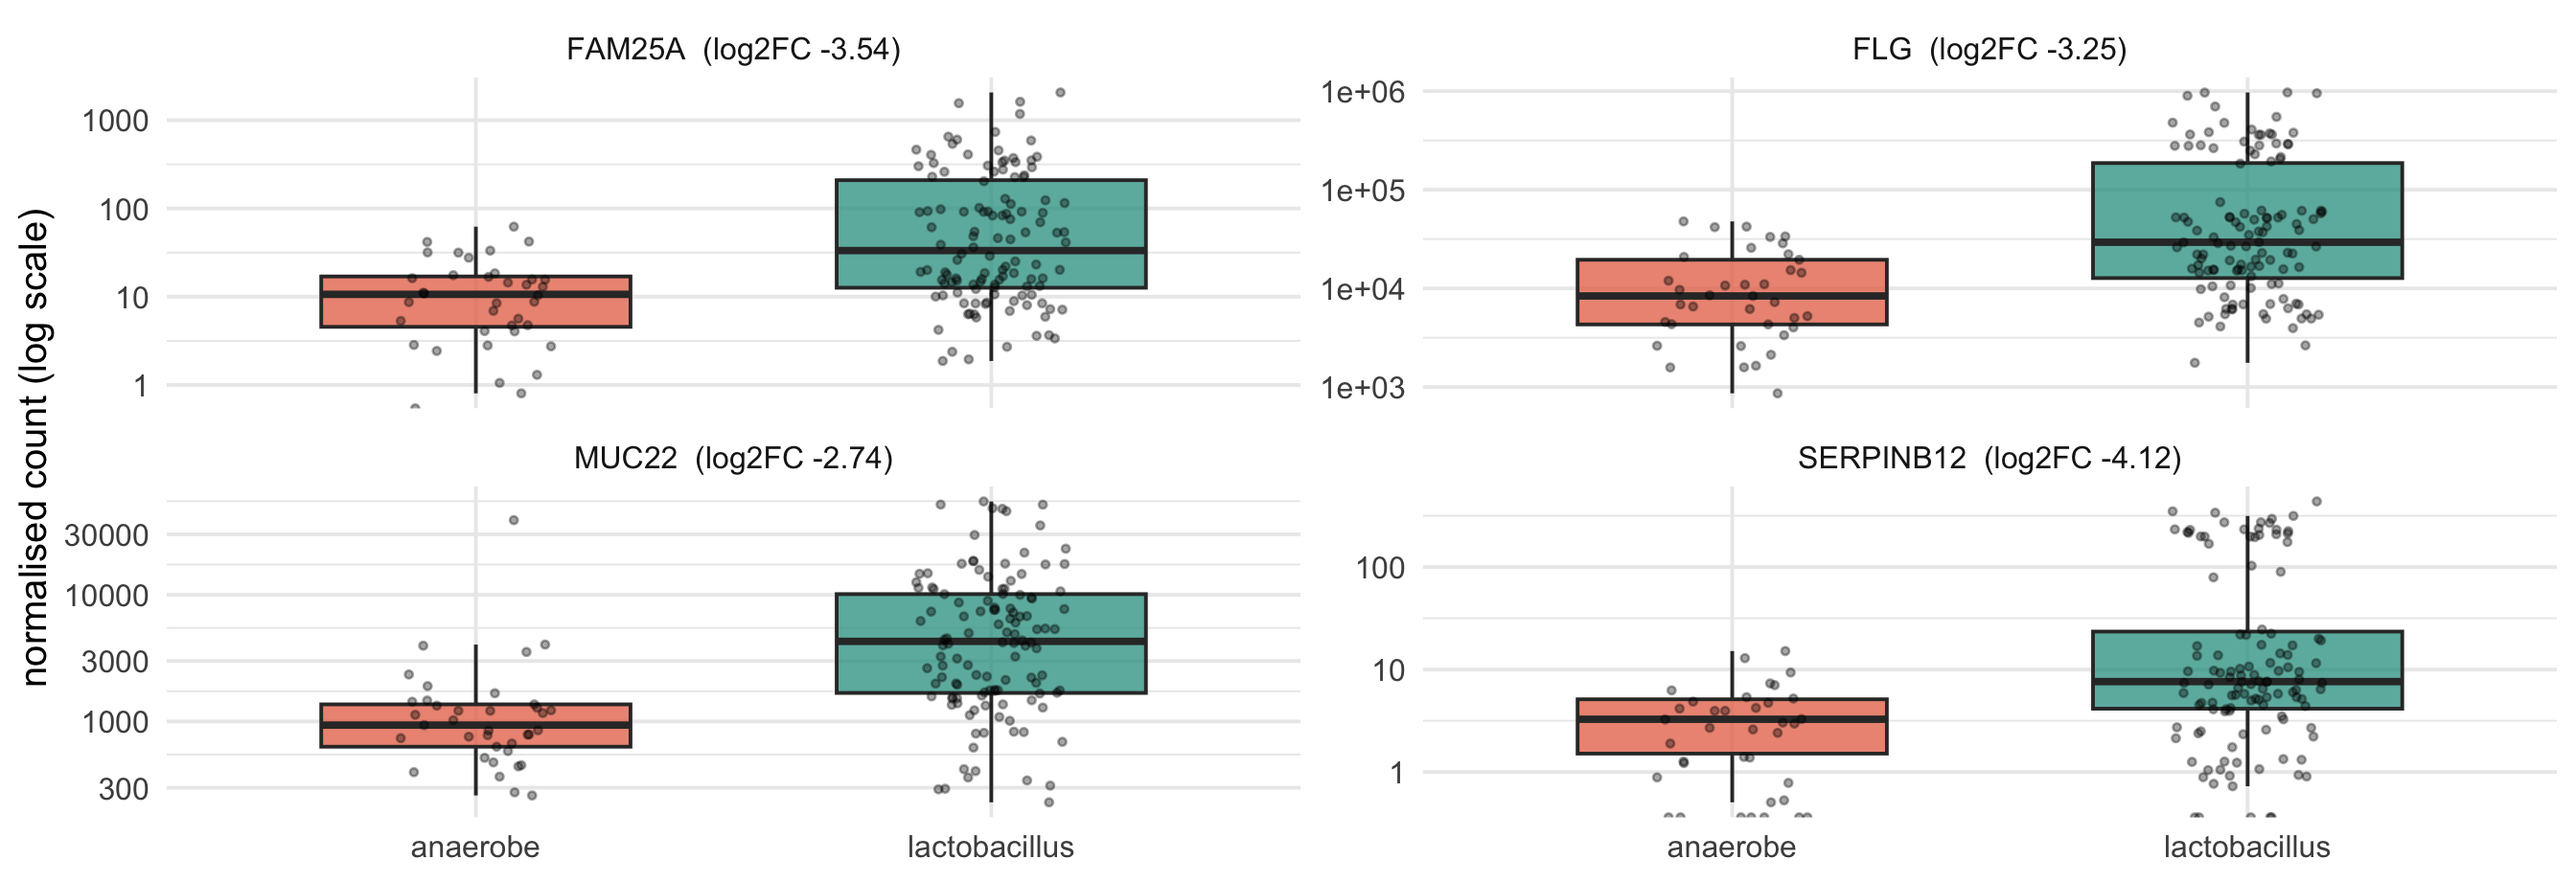
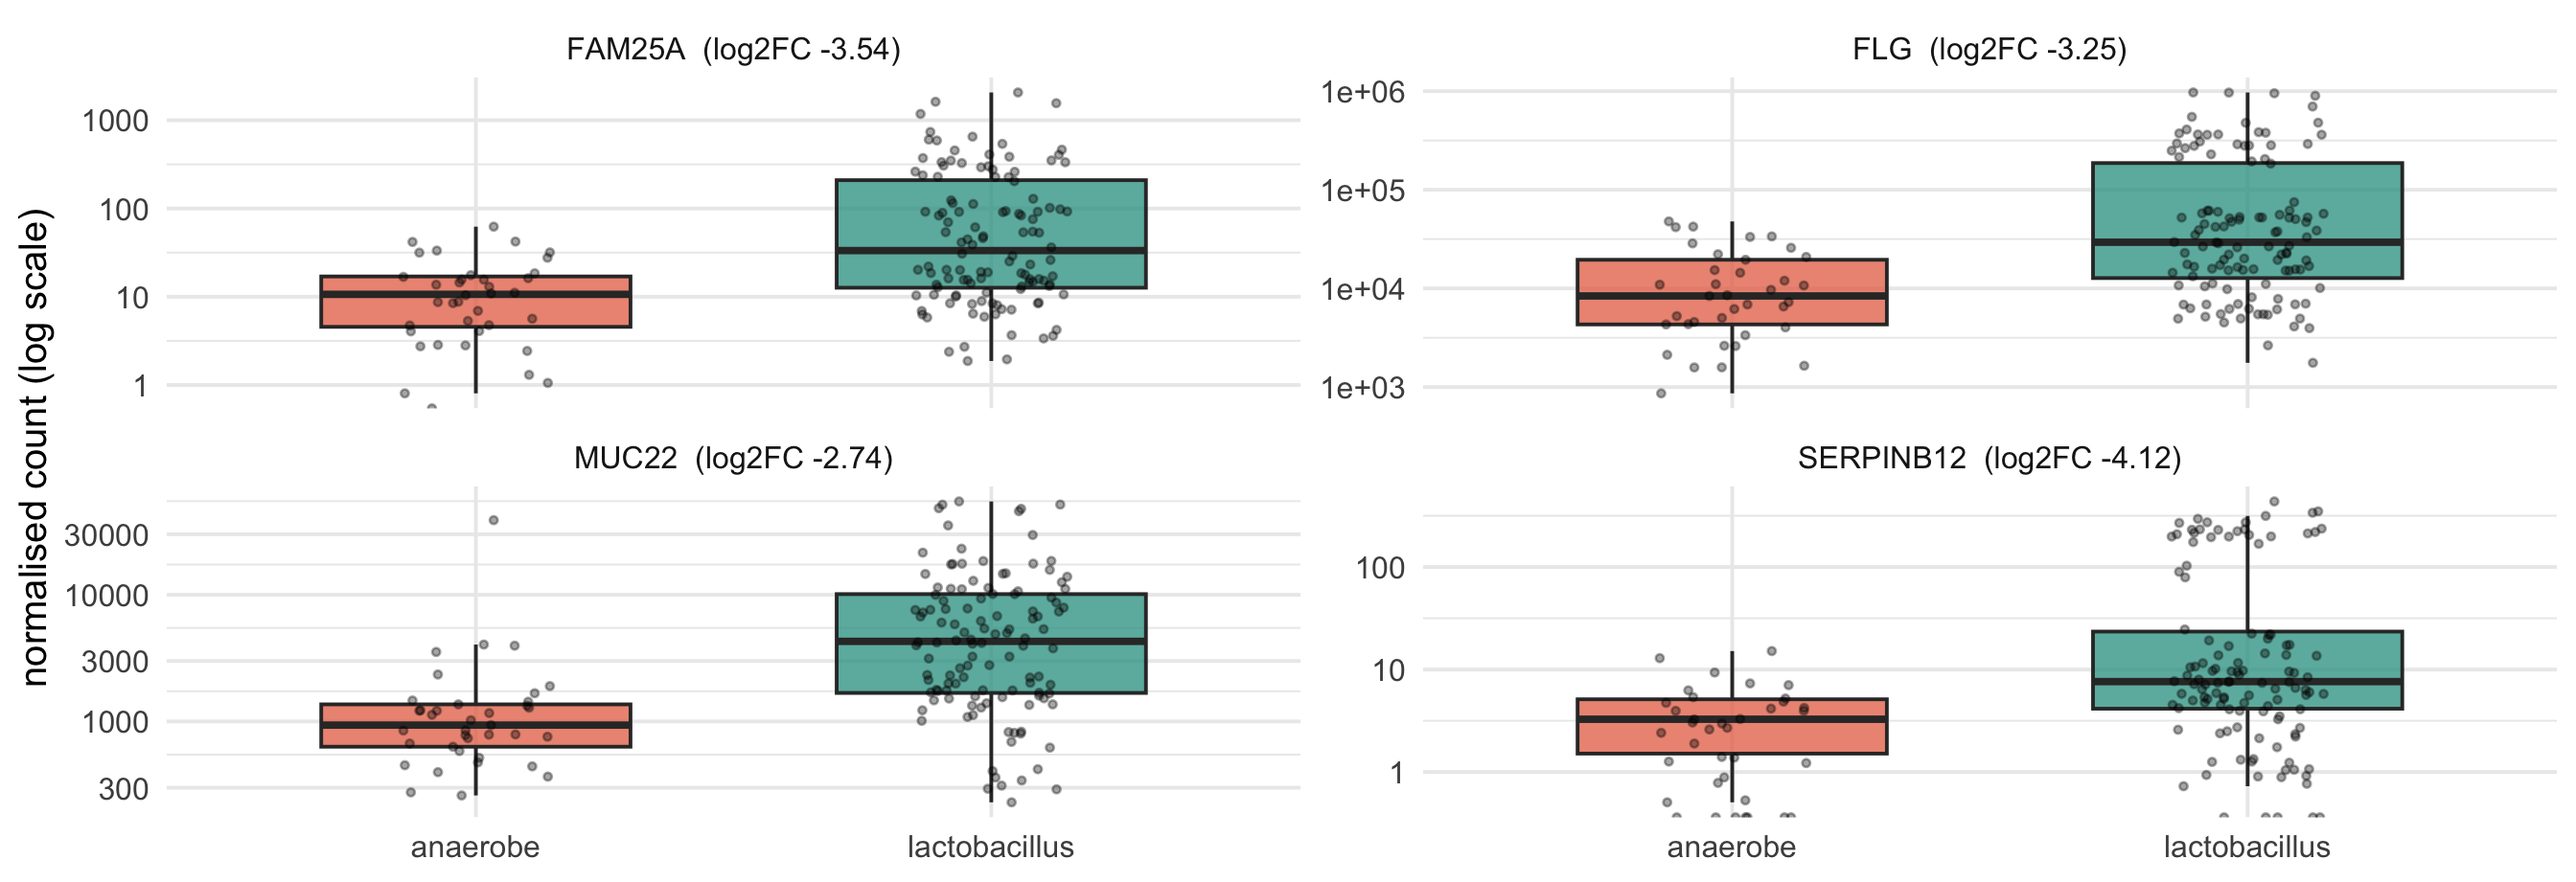
Publish draft site from workshop-2-modules a2e4979

diff --git a/materials/2-workshop2/5-enrichment/index.html b/materials/2-workshop2/5-enrichment/index.html
@@ -380,7 +380,7 @@ pre > code.sourceCode > span > a:first-child::before { text-decoration: underlin
 </section>
 <section id="exercise-1-from-a-gene-list-to-a-sentence" class="level2">
 <h2 class="anchored" data-anchor-id="exercise-1-from-a-gene-list-to-a-sentence">Exercise 1: From a gene list to a sentence</h2>
-<p>Open <code>notebooks/05-enrichment.qmd</code>. You need yesterday’s DESeq2 results. If you no longer have them, rerun the three lines that made them.</p>
+<p>Open <code>notebooks/05-enrichment.qmd</code>. You need yesterday’s preterm-versus-term results for the gene table, from step 7 of Module 4’s second exercise. If you no longer have them, rerun the three lines that made them.</p>
 <section id="part-1-predict" class="level3">
 <h3 class="anchored" data-anchor-id="part-1-predict">Part 1: Predict</h3>
 <ol type="1">
@@ -418,7 +418,7 @@ pre > code.sourceCode > span > a:first-child::before { text-decoration: underlin
 <ul>
 <li>Was your Part 1 prediction of the elevated program right?</li>
 <li>Two of the top sets overlap heavily. How would you report them without double counting?</li>
-<li>Yesterday the outcome contrast gave you 1,698 genes and no clear story; today it gives you one sentence. What did enrichment add, and what did it hide?</li>
+<li>Yesterday preterm against term gave you 1,698 genes and no clear story; today it gives you one sentence. What did enrichment add, and what did it hide?</li>
 </ul>
 </section>
 </section>

diff --git a/materials/2-workshop2/5-enrichment/slides.html b/materials/2-workshop2/5-enrichment/slides.html
@@ -209,9 +209,10 @@
 </div>
 
 </section>
-<section id="yesterday-you-produced-this" class="slide level2 center">
-<h2>Yesterday you produced this</h2>
+<section id="yesterday-preterm-against-term-gave-you-this" class="slide level2 center">
+<h2>Yesterday, preterm against term gave you this</h2>
 <p>1,698 genes with an adjusted p-value below 0.05.</p>
+<p>This is the gene table tested against birth outcome, from the end of yesterday’s second exercise, not the anaerobe-against-<em>Lactobacillus</em> test with its 1,815 genes.</p>
 <div class="fragment">
 <p>What is the finding?</p>
 </div>
@@ -781,7 +782,7 @@
 <p>Open <code>notebooks/05-enrichment.qmd</code>.</p>
 <div class="cell">
 <div class="cell-output-display">
-<countdown-timer class="countdown" id="timer_f388cf09" minutes="45" seconds="0" update-every="1" play-sound="true" tabindex="0" style="bottom:0;left:0;"></countdown-timer>
+<countdown-timer class="countdown" id="timer_4466aca0" minutes="45" seconds="0" update-every="1" play-sound="true" tabindex="0" style="bottom:0;left:0;"></countdown-timer>
 </div>
 </div>
 

diff --git a/materials/2-workshop2/6-integration/slides.html b/materials/2-workshop2/6-integration/slides.html
@@ -559,7 +559,7 @@
 </ul>
 <div class="cell">
 <div class="cell-output-display">
-<countdown-timer class="countdown" id="timer_f7aeb150" minutes="15" seconds="0" update-every="1" play-sound="true" tabindex="0" style="bottom:0;left:0;"></countdown-timer>
+<countdown-timer class="countdown" id="timer_575d9b88" minutes="15" seconds="0" update-every="1" play-sound="true" tabindex="0" style="bottom:0;left:0;"></countdown-timer>
 </div>
 </div>
 </section>
@@ -568,7 +568,7 @@
 <p>One volunteer: explain <strong>your partner’s</strong> project, and whether integration would actually help them.</p>
 <div class="cell">
 <div class="cell-output-display">
-<countdown-timer class="countdown" id="timer_8dcf1630" minutes="10" seconds="0" update-every="1" play-sound="true" tabindex="0" style="bottom:0;left:0;"></countdown-timer>
+<countdown-timer class="countdown" id="timer_0ba4c2d8" minutes="10" seconds="0" update-every="1" play-sound="true" tabindex="0" style="bottom:0;left:0;"></countdown-timer>
 </div>
 </div>
 </section>

diff --git a/materials/1-workshop1/2-intro-to-r/slides.html b/materials/1-workshop1/2-intro-to-r/slides.html
@@ -565,7 +565,7 @@
 <p><strong>Quarto works inside VS Code</strong></p>
 <p>Click <img data-src="images/render-icon.png" alt="small icon of render arrow" width="100"> (the Preview button) at the top of a <code>.qmd</code> open in VS Code.</p>
 <p>Render input file to various document formats.</p>
-<div class="quarto-layout-panel" style="font-size: .7em; text-align: center" data-layout="[[1, 1, 1, 1]]">
+<div class="quarto-layout-panel" data-layout="[[1, 1, 1, 1]]" style="font-size: .7em; text-align: center">
 <div class="quarto-layout-row">
 <div class="quarto-layout-cell" style="flex-basis: 25.0%;justify-content: flex-start;">
 <p><strong>Input</strong></p>

diff --git a/materials/2-workshop2/2-count-table-anatomy/slides.html b/materials/2-workshop2/2-count-table-anatomy/slides.html
@@ -721,7 +721,7 @@
 <p>Open <code>notebooks/02-count-table-anatomy.qmd</code> in your Codespace.</p>
 <div class="cell">
 <div class="cell-output-display">
-<countdown-timer class="countdown" id="timer_f46f0dcd" minutes="45" seconds="0" update-every="1" play-sound="true" tabindex="0" style="bottom:0;left:0;"></countdown-timer>
+<countdown-timer class="countdown" id="timer_a24e074c" minutes="45" seconds="0" update-every="1" play-sound="true" tabindex="0" style="bottom:0;left:0;"></countdown-timer>
 </div>
 </div>
 

diff --git a/materials/2-workshop2/0-welcome/slides.html b/materials/2-workshop2/0-welcome/slides.html
@@ -286,7 +286,7 @@
 <p>What do you want to be able to do on Friday that you cannot do today?</p>
 <div class="cell">
 <div class="cell-output-display">
-<countdown-timer class="countdown" id="timer_4ed49456" minutes="3" seconds="0" update-every="1" play-sound="true" tabindex="0" style="bottom:0;left:0;"></countdown-timer>
+<countdown-timer class="countdown" id="timer_8b467a25" minutes="3" seconds="0" update-every="1" play-sound="true" tabindex="0" style="bottom:0;left:0;"></countdown-timer>
 </div>
 </div>
 

diff --git a/materials/1-workshop1/0-welcome/slides.html b/materials/1-workshop1/0-welcome/slides.html
@@ -234,7 +234,7 @@
 </section>
 <section id="flow-of-the-workshop" class="slide level2">
 <h2>Flow of the Workshop</h2>
-<div class="r-stretch quarto-layout-panel" data-layout="[2, 2]" style="text-align: center">
+<div class="r-stretch quarto-layout-panel" style="text-align: center" data-layout="[2, 2]">
 <div class="quarto-layout-row">
 <div class="quarto-layout-cell" style="flex-basis: 50.0%;justify-content: center;">
 <p><img data-src="images/slide-normal.png" class="drop fragment" width="540"></p>

diff --git a/materials/2-workshop2/4-differential/slides.html b/materials/2-workshop2/4-differential/slides.html
@@ -875,7 +875,7 @@
 <p>Open <code>notebooks/04-differential.qmd</code>.</p>
 <div class="cell">
 <div class="cell-output-display">
-<countdown-timer class="countdown" id="timer_0146af2e" minutes="45" seconds="0" update-every="1" play-sound="true" tabindex="0" style="bottom:0;left:0;"></countdown-timer>
+<countdown-timer class="countdown" id="timer_ea253522" minutes="45" seconds="0" update-every="1" play-sound="true" tabindex="0" style="bottom:0;left:0;"></countdown-timer>
 </div>
 </div>
 

diff --git a/materials/2-workshop2/3-ordination/slides.html b/materials/2-workshop2/3-ordination/slides.html
@@ -482,7 +482,7 @@
 <p>Open <code>notebooks/03-ordination.qmd</code>.</p>
 <div class="cell">
 <div class="cell-output-display">
-<countdown-timer class="countdown" id="timer_becad139" minutes="45" seconds="0" update-every="1" play-sound="true" tabindex="0" style="bottom:0;left:0;"></countdown-timer>
+<countdown-timer class="countdown" id="timer_6226a31d" minutes="45" seconds="0" update-every="1" play-sound="true" tabindex="0" style="bottom:0;left:0;"></countdown-timer>
 </div>
 </div>
 

diff --git a/materials/2-workshop2/4-differential/index.html b/materials/2-workshop2/4-differential/index.html
@@ -454,6 +454,7 @@ pre > code.sourceCode > span > a:first-child::before { text-decoration: underlin
 <li>how many were significant in each</li>
 <li>what share of the significant ones changed by more than a factor of two</li>
 </ul>
+<p>Save these gene results. Tomorrow’s enrichment module starts from them.</p>
 <p>Write down what that comparison tells you about where the outcome signal lives.</p></li>
 </ol>
 </section>
